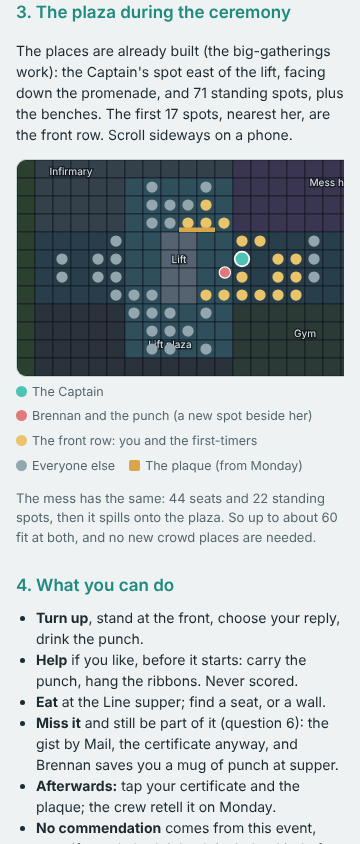
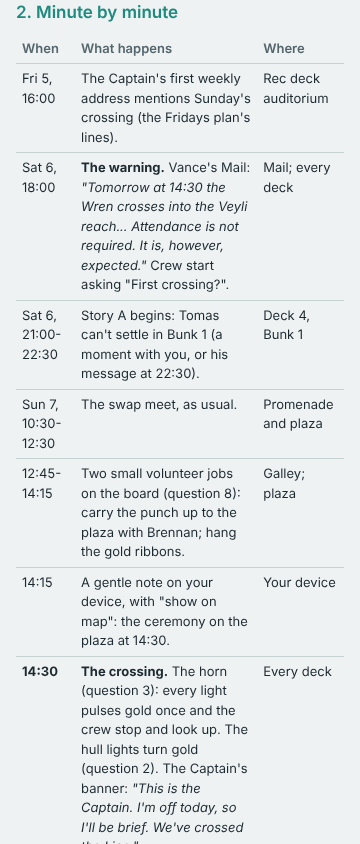
Crossing the Line plan 1.1: the story (three options, A recommended: Tomas and who answers the oath), reactions timed for cues unlocking at the horn, question line-q9
Claude-Session: https://claude.ai/code/session_01GpiqZ9jCYbS9XTNPF8adHr

diff --git a/plans/event-line-plan.html b/plans/event-line-plan.html
@@ -65,7 +65,7 @@ blockquote{margin:6px 0;padding:6px 12px;border-left:3px solid var(--gold);font-
 <main>
 <button class="theme" id="theme" aria-label="Switch light or dark">Light / dark</button>
 <h1>Crossing the Line: the plan</h1>
-<div class="sub">Event planner EP2, 2026-10-21, version 1 (for review). Branch <code>claude/event-plan-line</code>, from build 0.64.6. Planning only: the game hasn't changed. The first ship-wide event in the story, built after the ion storm. Your answers go in section 8.</div>
+<div class="sub">Event planner EP2, 2026-10-21, version 1.1 (for review: the story added at your request). Branch <code>claude/event-plan-line</code>, from build 0.64.6. Planning only: the game hasn't changed. The first ship-wide event in the story, built after the ion storm. Your answers go in section 8.</div>
 
 <div class="card key">
 <b>In short</b>
@@ -75,9 +75,49 @@ blockquote{margin:6px 0;padding:6px 12px;border-left:3px solid var(--gold);font-
 <li><b>14:30-15:15, the plaza:</b> about 50-60 crew. You stand at the front with the other first-timers. The Captain reads the old oath, you choose one reply, then everyone drinks a mug of Brennan's famously awful green Line punch.</li>
 <li><b>18:00-19:15, the mess:</b> the Line supper takes the Sunday table's place, up to about 60 people.</li>
 <li><b>Monday:</b> your Line certificate on your shelf, a brass plaque on the plaza, and the crew retelling who pulled the worst face.</li>
-<li><b>About 5 build turns</b>, switched off until you've reviewed it. <b>8 questions</b> for you, each with a recommended answer (section 8).</li>
+<li><b>A small story runs through it</b>, as you asked: recommended, <b>"Who answers the oath"</b>, with Tomas, your bunkmate, who came aboard the same week as you. What you choose on the plaza is cast on Monday's plaque.</li>
+<li><b>About 5-6 build turns</b>, switched off until you've reviewed it. <b>9 questions</b> for you, each with a recommended answer (section 8).</li>
 </ul>
 </div>
+
+<h2>The story (new)</h2>
+<p>Each option has a beginning, a middle where your one choice matters, and a payoff on Monday. All three use crew already aboard, and none touches the later chapters of anyone's personal story.</p>
+<details open>
+<summary>A. "Who answers the oath" (recommended)</summary>
+<ul>
+<li><b>Saturday night.</b> The old hands' wind-up for every crossing: <i>"The newest hand answers the oath, in front of everyone. It's always a disaster."</i> (Pell starts it.) Tomas, your bunkmate, arrived the same week as you and believes every word. After his shift he can't settle in Bunk 1: <i>"Eighty people. I'll say something stupid. Or nothing."</i> You can practise with him, tell him he'll be fine, or admit you're nervous too. If you're not there by 22:30, he messages you instead: <i>"Can't sleep. Tomorrow. You?"</i></li>
+<li><b>Sunday, 14:40, the plaza.</b> The wind-up is half true. After the oath the Captain asks, <i>"Who answers for the first-timers?"</i> Tomas is in the front row in his Watch uniform: he's on shift, keeping the plaza, and she's pulled him forward (<i>"Watch can spare you for ten minutes"</i>). Your one choice:
+<ul>
+<li><b>"I'll answer."</b> You: <i>"We came a long way. We'd like to stay."</i></li>
+<li><b>Nudge Tomas.</b> He wobbles, then: <i>"We're new, and we're nervous, and we came anyway."</i></li>
+<li><b>"We'll answer together."</b> Both: <i>"We'll look after each other. That's the whole oath, isn't it?"</i></li>
+</ul>
+Then Brennan's punch.</li>
+<li><b>Monday.</b> The brass plaque carries the words you chose, under the date. The crew quote them back. Tomas has a line for each ending (proud of you; amazed at himself, <i>"I said it. Out loud. In front of the Captain."</i>; or glad he wasn't alone).</li>
+<li><b>If you miss it,</b> Tomas answers alone, his words go on the plaque, and he tells you all about it on Monday.</li>
+<li><b>No spoilers:</b> his nerves are only about speaking in front of everyone; nothing from the later chapters of his story.</li>
+<li><b>Cost:</b> about one more turn (the Saturday moment, the reworked oath, the plaque's words, Tomas's Monday lines; about 30 new lines from the writer).</li>
+</ul>
+</details>
+<details>
+<summary>B. "The missing recipe"</summary>
+<ul>
+<li><b>Sunday morning:</b> Brennan's Line punch recipe card is gone. Lukas tidied the galley, and a box of old cards went to the swap meet.</li>
+<li><b>The swap meet (10:30-12:30):</b> you can find the card on a stall, then give it back, suggest a new recipe (the punch comes out a different green), or keep the secret and let Brennan improvise.</li>
+<li><b>Monday:</b> the card is framed beside the plaque, or the new recipe becomes "the Wren's own".</li>
+<li><b>Weaker:</b> it all happens before the ceremony, and the oath isn't part of it.</li>
+</ul>
+</details>
+<details>
+<summary>C. "The Line roll"</summary>
+<ul>
+<li><b>Saturday:</b> Commander Vance keeps the Wren's Line roll, signed by every first-timer since the ship launched, and asks you to bring it up from stores.</li>
+<li><b>The ceremony:</b> each first-timer signs it, and you choose what to write beside your name.</li>
+<li><b>Monday:</b> the roll hangs by the plaque, with your line at the bottom.</li>
+<li><b>Weaker:</b> quiet, and nobody else's story is in it.</li>
+</ul>
+</details>
+<p class="sub"><b>Reactions come within minutes of the horn,</b> so the lines the crew say from 14:30 are about the horn, the gold windows and the walk to the plaza (<i>"Did you feel that? The whole deck went gold."</i>). Lines about the punch and the answer wait until the ceremony is over at 15:15.</p>
 
 <h2>1. The day at a glance</h2>
 <p>Sunday Day 7, from 08:00 to 22:00. Grey is what already happens every Sunday; gold is the event. Scroll sideways on a phone.</p>
@@ -89,12 +129,13 @@ blockquote{margin:6px 0;padding:6px 12px;border-left:3px solid var(--gold);font-
 <tr><th>When</th><th>What happens</th><th>Where</th></tr>
 <tr><td>Fri 5, 16:00</td><td>The Captain's first weekly address mentions Sunday's crossing (the Fridays plan's lines).</td><td>Rec deck auditorium</td></tr>
 <tr><td>Sat 6, 18:00</td><td><b>The warning.</b> Vance's Mail: <i>"Tomorrow at 14:30 the Wren crosses into the Veyli reach... Attendance is not required. It is, however, expected."</i> Crew start asking "First crossing?".</td><td>Mail; every deck</td></tr>
+<tr><td>Sat 6, 21:00-22:30</td><td>Story A begins: Tomas can't settle in Bunk 1 (a moment with you, or his message at 22:30).</td><td>Deck 4, Bunk 1</td></tr>
 <tr><td>Sun 7, 10:30-12:30</td><td>The swap meet, as usual.</td><td>Promenade and plaza</td></tr>
 <tr><td>12:45-14:15</td><td>Two small volunteer jobs on the board (question 8): carry the punch up to the plaza with Brennan; hang the gold ribbons.</td><td>Galley; plaza</td></tr>
 <tr><td>14:15</td><td>A gentle note on your device, with "show on map": the ceremony on the plaza at 14:30.</td><td>Your device</td></tr>
 <tr><td><b>14:30</b></td><td><b>The crossing.</b> The horn (question 3): every light pulses gold once and the crew stop and look up. The hull lights turn gold (question 2). The Captain's banner: <i>"This is the Captain. I'm off today, so I'll be brief. We've crossed the Line."</i></td><td>Every deck</td></tr>
 <tr><td>14:30-14:40</td><td>The crowd gathers. The first-timers stand nearest the Captain (question 5); everyone else fills in behind and down the promenade.</td><td>Plaza</td></tr>
-<tr><td>14:40-14:55</td><td><b>The oath.</b> The Captain, Brennan and two first-timers speak. One reply for you: proud, nervous, or "Is this the part with the punch?".</td><td>Plaza</td></tr>
+<tr><td>14:40-14:55</td><td><b>The oath.</b> The Captain reads it, then asks who answers for the first-timers. Your one choice (story A): you, Tomas, or both of you together. Your words go on Monday's plaque.</td><td>Plaza</td></tr>
 <tr><td>14:55-15:15</td><td>The "dunking": a mug of Line punch each. Mugs out, faces pulled.</td><td>Plaza</td></tr>
 <tr><td>15:15</td><td>The ceremony ends. Brennan's Mail: <i>"The Line supper tonight at six... A proper roast, and a pudding. No punch. I promise."</i> Your certificate is on your shelf.</td><td>Mail; your cabin</td></tr>
 <tr><td>16:00-17:00</td><td>The reading corner, as usual.</td><td>Bow lounge</td></tr>
@@ -114,7 +155,8 @@ blockquote{margin:6px 0;padding:6px 12px;border-left:3px solid var(--gold);font-
 
 <h2>4. What you can do</h2>
 <ul>
-<li><b>Turn up</b>, stand at the front, choose your reply, drink the punch.</li>
+<li><b>Saturday night:</b> help Tomas with his nerves (story A).</li>
+<li><b>Turn up</b>, stand at the front, choose who answers the oath, drink the punch.</li>
 <li><b>Help</b> if you like, before it starts: carry the punch, hang the ribbons. Never scored.</li>
 <li><b>Eat</b> at the Line supper; find a seat, or a wall.</li>
 <li><b>Miss it</b> and still be part of it (question 6): the gist by Mail, the certificate anyway, and Brennan saves you a mug of punch at supper.</li>
@@ -128,6 +170,7 @@ blockquote{margin:6px 0;padding:6px 12px;border-left:3px solid var(--gold);font-
 <li><b>Brennan</b> works on Sundays: he brings the punch, then cooks the supper with Lukas Dlamini.</li>
 <li><b>Commander Vance</b> works, and stays on the bridge (he writes Saturday's Mail).</li>
 <li><b>Calder, Sato and Holt</b> are off; they come if they like, as crew.</li>
+<li><b>Tomas Lind</b>, your bunkmate (story A): on shift with the Watch, keeping the plaza, and pulled into the front row.</li>
 <li><b>The first-timers:</b> the roster already says how long each person has been aboard. 13 crew came in the last two weeks and 4 more in the last six months, so with you that's a front row of 18 (question 5). Two of them speak in the scene.</li>
 <li><b>Everyone else free:</b> 86 crew aboard and about 53 are off that day; the ceremony expects about 50-60.</li>
 <li>No Veyli, and nothing about the visit: the reach is just where the Wren is going.</li>
@@ -137,13 +180,13 @@ blockquote{margin:6px 0;padding:6px 12px;border-left:3px solid var(--gold);font-
 <p>After the ion storm, which switches the events base on. Each turn: small edits in the right seats, the area's checks, then the quick check; the switch <code>EV_LINE_ON</code> stays off (the game identical) until you've played it and agreed.</p>
 <div class="scroll"><table class="wide">
 <tr><th>Turn</th><th>What</th><th>Sections (owners)</th><th>Checks</th></tr>
-<tr><td>L1</td><td>The event itself: its phases, the address, the two Mails, chatter, status lines; the first-timers (picked when the game loads, from how long people have been aboard); the oath scene and its cast; the Captain's one scene that day; the writer's lines moved in and baked.</td><td>18 (traditions), 22 (writers' lines, baked)</td><td>events_check, bigevents_check on paper, lines_check, social_check</td></tr>
+<tr><td>L1</td><td>The event itself, and story A's reworked oath scene: its phases, the address, the two Mails, chatter, status lines; the first-timers (picked when the game loads, from how long people have been aboard); the oath scene and its cast; the Captain's one scene that day; the writer's lines moved in and baked.</td><td>18 (traditions), 22 (writers' lines, baked)</td><td>events_check, bigevents_check on paper, lines_check, social_check</td></tr>
 <tr><td>L2</td><td>The crowds: the ceremony on the plaza (front row first), the Line supper as the Sunday table re-dressed, Winner Stays On ending at 14:00 that day, the galley's extra batch and a pudding.</td><td>18, 14 (sim), 16 (galley), rec</td><td>day_check Days 6-8, food_check Day 7, bigevents_check crowds (draw calls at phone size)</td></tr>
 <tr><td>L3</td><td>The look: the gold hull lights, the horn's gold pulse, ribbons on the plaza, the plaque, your certificate (which moves with you when you get the officer's cabin on Day 10).</td><td>8b (performance), 4d (deck architect)</td><td>deck_check, perf_check (two new scenes), phone screenshots</td></tr>
-<tr><td>L4</td><td>Your part: the two jobs, the Schedule and status line, the Record line, missing it, a reload in the middle of the oath.</td><td>17 (systems), 19 (device), 18</td><td>player_check, device_check, interactions_check, devmode_check, bigevents_check live, the arrival-week check alone</td></tr>
+<tr><td>L4</td><td>Your part: story A's Saturday moment with Tomas and his Monday lines, the two jobs, the Schedule and status line, the Record line, missing it, a reload in the middle of the oath.</td><td>20c (social), 17 (systems), 19 (device), 18</td><td>player_check, device_check, interactions_check, devmode_check, bigevents_check live, the arrival-week check alone</td></tr>
 <tr><td>L5</td><td>Switched on after your review, then the full round of checks.</td><td>18</td><td>everything</td></tr>
 </table></div>
-<p class="sub">About 5 turns (the events plan said 4-5). Then a second adversarial review of the build, then your review. Draw calls: the storm's party measured 236/367 with 64 crew on Deck 3 against a budget of 450; the crowd is drawn in batches, so 60 people barely move it, and the new look adds about 3.</p>
+<p class="sub">About 5-6 turns (the events plan said 4-5; the story adds up to one). Then a second adversarial review of the build, then your review. Draw calls: the storm's party measured 236/367 with 64 crew on Deck 3 against a budget of 450; the crowd is drawn in batches, so 60 people barely move it, and the new look adds about 3.</p>
 
 <details>
 <summary>For the builders: the details</summary>
@@ -164,7 +207,7 @@ blockquote{margin:6px 0;padding:6px 12px;border-left:3px solid var(--gold);font-
 
 <h2>7. Risks</h2>
 <ol>
-<li><b>The base's gap:</b> today nobody is actually placed into an event's meeting. Until that's fixed (F0b), the Captain and Brennan wouldn't be on the plaza.</li>
+<li><b>The base's gap:</b> today nobody is actually placed into an event's meeting. Until that's fixed (F0b), the Captain, Brennan and Tomas wouldn't be on the plaza. Tomas is on shift, so the fix must bring named people who are working as well as those called in.</li>
 <li><b>Re-dressing the Sunday table</b> touches the galley's Sunday dinner and its long tables. The food check on Day 7 and the galley owner's review cover it.</li>
 <li><b>The crowd may come in under 50</b> if Winner Stays On keeps people on the rec deck (question 7). The day check counts it.</li>
 <li><b>It's still the arrival week</b> (One week aboard, Zeke's invite), so the arrival-week check runs alone.</li>
@@ -176,6 +219,17 @@ blockquote{margin:6px 0;padding:6px 12px;border-left:3px solid var(--gold);font-
 <h2>8. Your answers</h2>
 <p>Pick one option per question (the recommended one is marked), and add a comment if you like. Nothing is built until you've answered.</p>
 <form id="answers" data-collection="answers" data-doc="event-line-plan" onsubmit="return false">
+
+<div class="q" data-qid="line-q9">
+<h3>The story: which one?</h3>
+<p class="why">The three options are at the top of the page ("The story").</p>
+<fieldset><legend>Story question</legend>
+<label class="opt"><input type="radio" name="line-q9" value="a"><span>A. "Who answers the oath": Tomas and you; your words go on the plaque<span class="recd">recommended</span></span></label>
+<label class="opt"><input type="radio" name="line-q9" value="b"><span>B. "The missing recipe": Brennan's card at the swap meet</span></label>
+<label class="opt"><input type="radio" name="line-q9" value="c"><span>C. "The Line roll": you sign the Wren's roll</span></label>
+</fieldset>
+<label class="cl" for="line-q9-c">Comment</label><textarea id="line-q9-c" name="line-q9-comment"></textarea>
+</div>
 
 <div class="q" data-qid="line-q1">
 <h3>1. When does the ship start talking about it?</h3>
@@ -235,7 +289,7 @@ blockquote{margin:6px 0;padding:6px 12px;border-left:3px solid var(--gold);font-
 <h3>6. If you miss the ceremony</h3>
 <p class="why">You might be asleep, on the rec deck, or just elsewhere. Sitting things out is always fine.</p>
 <fieldset><legend>Question 6</legend>
-<label class="opt"><input type="radio" name="line-q6" value="a"><span>You still crossed: the gist by Mail and the certificate anyway, and Brennan saves you a mug of punch at supper ("Nobody escapes the punch.")<span class="recd">recommended</span></span></label>
+<label class="opt"><input type="radio" name="line-q6" value="a"><span>You still crossed: the gist by Mail and the certificate anyway (with story A, Tomas answers alone and tells you on Monday), and Brennan saves you a mug of punch at supper ("Nobody escapes the punch.")<span class="recd">recommended</span></span></label>
 <label class="opt"><input type="radio" name="line-q6" value="b"><span>The gist by Mail and the certificate, nothing more</span></label>
 <label class="opt"><input type="radio" name="line-q6" value="c"><span>The certificate only if you were there</span></label>
 </fieldset>

diff --git a/plans/event-line-plan.md b/plans/event-line-plan.md
@@ -1,4 +1,4 @@
-# Crossing the Line: the event plan (version 1, for review)
+# Crossing the Line: the event plan (version 1.1, for review: the story added)
 
 Event planner EP2 (session_01GpiqZ9jCYbS9XTNPF8adHr), 2026-10-21. Branch `claude/event-plan-line`, from claude/integration 0.64.6 (675588c). Reports to lead 21. **Planning only: the game is unchanged.**
 
@@ -12,7 +12,51 @@ Event planner EP2 (session_01GpiqZ9jCYbS9XTNPF8adHr), 2026-10-21. Branch `claude
 - **14:30-15:15, the plaza:** about 50-60 crew. The first-timers stand at the front, you among them. The Captain reads the old oath, you choose one reply, then everyone drinks a mug of Brennan's green Line punch.
 - **18:00-19:15, the mess:** the Line supper, in the Sunday table's place, up to about 60 (44 seats and 22 standing spots already built).
 - **Monday Day 8:** your Line certificate on your shelf, a brass plaque on the plaza, and the crew retelling who pulled the worst face.
-- **About 5 build turns**, behind a new switch `EV_LINE_ON` (off = today's game), after the storm update.
+- **A small story runs through it** (the user, 00:55: "a really interesting little story for our first ship-wide events"): recommended, **"Who answers the oath"**, with Tomas, your bunkmate, who also came aboard a week ago. See "The story" below.
+- **About 5-6 build turns**, behind a new switch `EV_LINE_ON` (off = today's game), after the storm update.
+
+## The story (version 1.1, the user's ask relayed by lead 21 at 00:58)
+Three options, each with a beginning, a middle where your one choice matters, and a payoff on Monday. All use crew already aboard, and none touches an arc's later beats.
+
+### Option A (recommended): "Who answers the oath"
+- **Beginning, Saturday night (Day 6).** The old hands have a wind-up for every crossing: "The newest hand answers the oath, in front of everyone. It's always a disaster." (Pell starts it; he's been aboard two years.) Tomas Lind, your bunkmate in Bunk 1, arrived the same week as you and believes every word. After his shift, in the bunk room, he can't settle: "Eighty people. I'll say something stupid. Or nothing." One moment, three replies: practise with him (practical), tell him he'll be fine (cheer), admit you're nervous too (share). If you're not in the bunk room by 22:30, he sends you a short message instead ("Can't sleep. Tomorrow. You?"), so the thread still starts.
+- **Middle, Sunday 14:40, the plaza.** It turns out the wind-up is half true. After the oath the Captain asks, "Who answers for the first-timers?" Tomas is in the front row in his Watch uniform: he's on shift, keeping the plaza, and she's pulled him to the front ("Watch can spare you for ten minutes"). Your one choice decides who answers, and with what words:
+  - "I'll answer." You say: "We came a long way. We'd like to stay."
+  - Nudge Tomas: "Go on. You know what to say." He wobbles, then says: "We're new, and we're nervous, and we came anyway."
+  - "We'll answer together." Both of you: "We'll look after each other. That's the whole oath, isn't it?"
+  
+  Then Brennan's punch, as written.
+- **Payoff, Monday (Day 8).** The brass plaque on the plaza carries the words you chose under the date. The crew quote them back ("Nervous and came anyway. I liked that."). Tomas has a line for each ending: proud of you; amazed at himself ("I said it. Out loud. In front of the Captain."); or glad he wasn't alone. Your certificate is on your shelf.
+- **If you miss the ceremony,** Tomas answers alone with his line, and on Monday he tells you how it went. It's his words on the plaque, so the story still ends well.
+- **No spoilers:** Tomas's nerves here are only about speaking in front of everyone. Nothing about home, his exam or the transfer list (his arc beats 5-7 stay untouched and ungated). Pell's part is a single chatter line.
+- **What it needs:**
+  - a Saturday moment in Bunk 1 (section 20c's moments, like `moment:quiz`; the social seat);
+  - the oath meeting with its choice reworked (EW1);
+  - the plaque reading `flag('line.answer')` (the deck architect's dress kit; it reads a saved flag, never the planner);
+  - Tomas's three Monday lines (`mem:line.answered`, `mem:line.tomas` and `mem:line.together`);
+  - Tomas on the plaza at 14:30 although he's on shift (the meeting names him; Watch keeping the plaza is his post that hour).
+  
+  About one more turn than the plain ceremony.
+
+### Option B: "The missing recipe"
+- **Beginning, Sunday morning.** Brennan's Line punch recipe card is gone: Lukas tidied the galley on Saturday, and a box of old cards went to the swap meet.
+- **Middle.** At the swap meet (10:30-12:30) you can find it on a stall, and choose:
+  - give it back;
+  - suggest a new recipe (the punch comes out a different green);
+  - keep the secret and let Brennan improvise.
+- **Payoff, Monday.** The card is framed beside the plaque, or Brennan's new recipe becomes "the Wren's own".
+- **Weaker:** the story happens before the ceremony, and the oath isn't part of it. It also leans on the volunteer jobs.
+
+### Option C: "The Line roll"
+- **Beginning.** Vance keeps the Wren's Line roll: every first-timer since the ship launched has signed it. On Saturday he asks you to bring it up from stores.
+- **Middle.** At the ceremony each first-timer signs it, and you choose what you write beside your name (three short lines).
+- **Payoff, Monday.** The roll hangs beside the plaque, with your line at the bottom.
+- **Weaker:** quiet, and nobody else's story is in it.
+
+**Recommended: A.** It has a person in it (your bunkmate, whom you already know), a choice in front of the whole crew that leaves something permanent, and it still works if you miss it.
+
+## Reactions within minutes of the horn (lead 21: EV1 makes event cues unlock straight away)
+The `onset` phase starts at 14:30, so `cue:event.crossingLine.onset` lines can play from 14:31, before the ceremony. Two of EW1's onset lines ("How was the punch?", "A week aboard and a Line crossed") would come too early. **Plan:** the onset file holds lines for 14:30-15:15 (the horn, the gold windows, the walk to the plaza: "Did you feel that? The whole deck went gold."). The after-the-ceremony lines move to a new `event.crossingLine.resolution` file (cue from 15:15), which is also where Tomas's ending and the punch lines go. The warning lines (from Saturday 18:00) gain Pell's wind-up.
 
 ## Checked in the game (0.64.6, and the events base a2d9f40)
 - **Day 7's traditions:** the swap meet 10:30-12:30 (promenade and plaza); the rec deck's slow stretch 08:00 and Winner Stays On 11:30-16:30; the reading corner 16:00-17:00 and "One week aboard" 17:15-17:55 (both in the bow lounge); the Sunday long table 18:00-19:00 (±10 minutes) in the mess; Lap of the Wren 20:30-21:15. Nothing else (the 4-weekly rec days fall on Days 14, 21 and 28; Day 8 has a birthday).
@@ -28,12 +72,13 @@ Event planner EP2 (session_01GpiqZ9jCYbS9XTNPF8adHr), 2026-10-21. Branch `claude
 | --- | --- | --- | --- |
 | Fri 5, 16:00 | The Captain's first weekly address mentions Sunday's crossing (the Fridays plan's lines) | rec deck auditorium | FR1 (Fridays) |
 | Sat 6, 18:00 | **Warning** begins: Vance's Mail "Tomorrow we cross the Line"; crew start asking "First crossing?" | Mail, every deck | F2 phase note, cue `event.crossingLine.warning` |
+| Sat 6, 21:00-22:30 | Story A's beginning: Tomas can't settle in Bunk 1 (a moment, or his message at 22:30) | Deck 4, Bunk 1 | 20c moment |
 | Sun 7, 10:30-12:30 | The swap meet, as usual | promenade, plaza | (unchanged) |
 | Sun 7, 12:45-14:15 | Two small volunteer jobs (question 8): carry the punch up from the galley; hang gold ribbons on the plaza | galley, plaza | event `jobs` (17) |
 | Sun 7, 14:15 | Device notice: "The Crossing the Line ceremony, on the plaza at 14:30", with "show on map" | device | F3a |
 | **Sun 7, 14:30** | **Onset.** The horn moment (felt everywhere: a soft gold pulse, crew stop and look up); the hull lights turn gold; the Captain's banner (3 lines, she's called in) | every deck | moment `horn`, `address.onset`, F0b called in |
 | 14:30-14:40 | The crowd gathers: first-timers nearest the Captain, everyone else behind and down the promenade | plaza | gathering `lineCeremony` (k 353) |
-| 14:40-14:55 | **The oath** (meeting `crossingCeremony`): the Captain, Brennan and two first-timers speak; your one reply (proud, nervous, "the part with the punch?") | plaza | meeting, cast `first:2` |
+| 14:40-14:55 | **The oath** (meeting `crossingCeremony`): the Captain reads it, then asks who answers for the first-timers; your one choice (story A: you, Tomas, or both together) and its words go on Monday's plaque | plaza | meeting, cast `tomas`, `first:2` |
 | 14:55-15:15 | The "dunking": everyone drinks Brennan's Line punch (mugs out) | plaza | gathering anim `drink` |
 | 15:15 | **Resolution** begins: Brennan's Mail "The Line supper tonight at six"; your certificate is on your shelf | Mail, your cabin | `mail.resolution`, trace `lineCertificate` |
 | 16:00-17:00 | The reading corner, as usual | bow lounge | (unchanged) |
@@ -58,13 +103,13 @@ Each turn: small exact edits, a build-table row under "Crossing the Line", the a
 
 | Turn | What | Sections (owners) | Checks besides check_fast |
 | --- | --- | --- | --- |
-| L1 | The event's data: `SHIP_EVENTS.crossingLine` only when `EV_LINE_ON` (phases, address, Mail, news, status, `commend: false`, no threads); the first-timers (`lineFirst`, from the roster's `since`, made at load, no `R()`); cast slot `first:2`; the oath meeting; `EV_BEATS` row (the ceremony counts as the Captain's scene that day); move EW1's ready files into `content/` and bake | 18 (traditions: EV1's seat), 22 generated (writers, through content_gen.py) | events_check, bigevents_check (on paper), lines_check, social_check, cadet_test off |
+| L1 | The event's data (and story A's reworked oath meeting, its choice setting `line.answer`): `SHIP_EVENTS.crossingLine` only when `EV_LINE_ON` (phases, address, Mail, news, status, `commend: false`, no threads); the first-timers (`lineFirst`, from the roster's `since`, made at load, no `R()`); cast slot `first:2`; the oath meeting; `EV_BEATS` row (the ceremony counts as the Captain's scene that day); move EW1's ready files into `content/` and bake | 18 (traditions: EV1's seat), 22 generated (writers, through content_gen.py) | events_check, bigevents_check (on paper), lines_check, social_check, cadet_test off |
 | L2 | The crowds: the ceremony gathering (k 353, plaza venue, front row first), the Line supper as the Sunday table re-dressed on Day 7 (k 440 kept; name, words, 18:00-19:15 with no jitter, pull up to about 60; its Saturday Mail left out), Winner Stays On ends 14:00 that day, the galley's extra batch and a pudding | 18, 14 (sim: the front row's order), 16 (galley), 4e/15r (rec: WSO's hours) | day_check Days 6-8 (on), food_check Day 7, events_check, bigevents_check (crowds: draw calls at both, at 390x844) |
 | L3 | The look: gold hull lights (`FEEL_MOODS.crossingLine`), the horn moment (a new `horn` feel: a soft gold pulse, no shake), gold ribbons on the plaza (`DECK_DRESS.lineRibbons`), the plaque (`linePlaque`), the certificate (`lineCertificate`, on your shelf; it moves with you to cabin 4-23 on Day 10 like the Tiles trophy) | 8b (performance), 4d (deck architect), 18 | deck_check Decks 3-4, perf_check (two new scenes), screenshots at 390x844 and 360 wide |
-| L4 | Your part: the two volunteer jobs, the Schedule and status lines (F3), the Record line ("Crossed the Line into the Veyli reach, Day 7", never a score), missing the ceremony (Brennan's mug at supper), a reload mid-oath (F4b) | 17 (systems: posting), 19 (device), 18 | player_check, device_check, interactions_check, devmode_check, bigevents_check (live), intro_check `--week` alone |
+| L4 | Your part: story A's Saturday moment with Tomas (20c, social seat) and his Monday lines, the two volunteer jobs, the Schedule and status lines (F3), the Record line ("Crossed the Line into the Veyli reach, Day 7", never a score), missing the ceremony (Brennan's mug at supper), a reload mid-oath (F4b) | 17 (systems: posting), 19 (device), 18 | player_check, device_check, interactions_check, devmode_check, bigevents_check (live), intro_check `--week` alone |
 | L5 | Switch it on (`EV_LINE_ON = EVENTS_ON`) after the user's review, the full round, design-doc and DEV_NOTES | 18 | the full round (intro_check in pieces) |
 
-**About 5 turns** (the events plan said 4-5), then the adversarial build review, then the user's review.
+**About 5-6 turns** (the events plan said 4-5; the story adds up to one), then the adversarial build review, then the user's review.
 
 **Needed first (not this plan's to build):** the storm update (the base is switched on with it); EV1's F0b (called in, and people planned into an event's meetings: the gap EC1 found, being fixed with PB), F3 (device), F4 (reloads), F7 (EC1's `bigevents_check.py`).
 
@@ -75,6 +120,7 @@ Each turn: small exact edits, a build-table row under "Crossing the Line", the a
 - `.../meetings/crossingCeremony.meet`: the oath, your three replies, Brennan's punch.
 - `.../reactions/event.crossingLine.warning|onset|afterglow.lines`.
 - `plans/events-ready/ionStorm/content/reactions/calledIn.lines`: shared (the Captain on Day 7).
+- **Story A's lines (EW1, about 30):** the Saturday bunk moment with Tomas (about 8 lines, 3 replies) and his 22:30 message; Pell's wind-up (a warning line or two); the oath meeting's new choice (who answers, three endings); three plaque texts (plus the missed-it one, Tomas's words); Tomas's Monday lines (3 + 1 missed); crew quoting the plaque. The onset lines rewritten for 14:30-15:15 and the after-ceremony ones moved to a new `event.crossingLine.resolution` file.
 - **New lines needed (small, EW1):** the horn's one-line notice; two volunteer job titles; Brennan's "saved you a mug" line for someone who missed it (question 6); the Record line; the device notice; the Sunday table's ask/here lines read from the supper's bank on Day 7.
 - **Fixes for EW1:** the bank's comment still says "an extra batch and a cake" (the cake was cut: punch and one pudding); lines_check needs its length rule for `event.*.mail.*`, `event.*.keepsake` and `event.*.plaque` (the dialogue engineer's file; EW1's README already asks for it).
 
@@ -89,13 +135,16 @@ Each turn: small exact edits, a build-table row under "Crossing the Line", the a
 8. **A gold that reads as "something wrong":** the storm's mood shifts the space outside to violet; the gold must look warm and festive, not alarming. Screenshots at phone size.
 9. **The ceremony's 45 minutes** must end before the reading corner (16:00): it ends 15:15; the punch stays at the plaza.
 
-## Questions for the user (each with a recommended answer; ids `line-q1` to `line-q8`, plus `line-general`)
+10. **Story A puts Tomas on the plaza while he's on shift:** the meeting names him, so F0b's fix must bring a named person who is on shift (not only people called in on a day off). Watch keeping the plaza is a believable post for that hour.
+11. **Reactions unlock at 14:30:** the onset lines must not mention the punch or the oath's result (moved to the resolution file).
+## Questions for the user (each with a recommended answer; ids `line-q1` to `line-q9`, plus `line-general`)
+- **(line-q9, new in 1.1) Which story?** Recommended: A, "Who answers the oath" (Tomas and you; your choice goes on the plaque). Others: B, "The missing recipe"; C, "The Line roll".
 1. **When does the ship start talking about it?** Recommended: with Vance's Mail on Saturday at 18:00 (and the Captain's mention at Friday's address). Others: Saturday morning; Friday's new-hands tea.
 2. **What do the gold hull lights look like?** Recommended: a warm gold in every window and slightly warmer light indoors, 14:30-19:15. Others: windows only; also gold light strips along the promenade (a few more draw calls).
 3. **The horn (the game has no sound):** Recommended: a felt moment: one soft gold pulse of the lights, crew stop and look up, a one-line notice. Others: also add the game's first sound, one horn note (sound is new work: a mute switch, phones on silent); the banner only.
 4. **The Line supper:** Recommended: the Sunday table re-dressed for the day (same dinner, renamed, 18:00-19:15, up to about 60). Other: a separate gathering, with the Sunday table off that day.
 5. **Who are the first-timers at the front?** Recommended: you and everyone aboard less than six months (about 17). Others: you and the 13 who arrived in the last two weeks; only you.
-6. **If you miss the ceremony:** Recommended: you still crossed (the gist by Mail, the certificate anyway), and Brennan saves you a mug of punch at supper. Others: the gist and the certificate only; the certificate only if you were there.
+6. **If you miss the ceremony:** Recommended: you still crossed (the gist by Mail, the certificate anyway; with story A, Tomas answers alone and tells you on Monday), and Brennan saves you a mug of punch at supper. Others: the gist and the certificate only; the certificate only if you were there.
 7. **Winner Stays On that Sunday:** Recommended: it ends at 14:00 that day. Others: runs as usual (a smaller crowd); none that Sunday.
 8. **Something to do beforehand:** Recommended: two small volunteer jobs on Sunday 12:45-14:15 (carry the punch, hang the ribbons), never scored. Other: none, just turn up.
 
